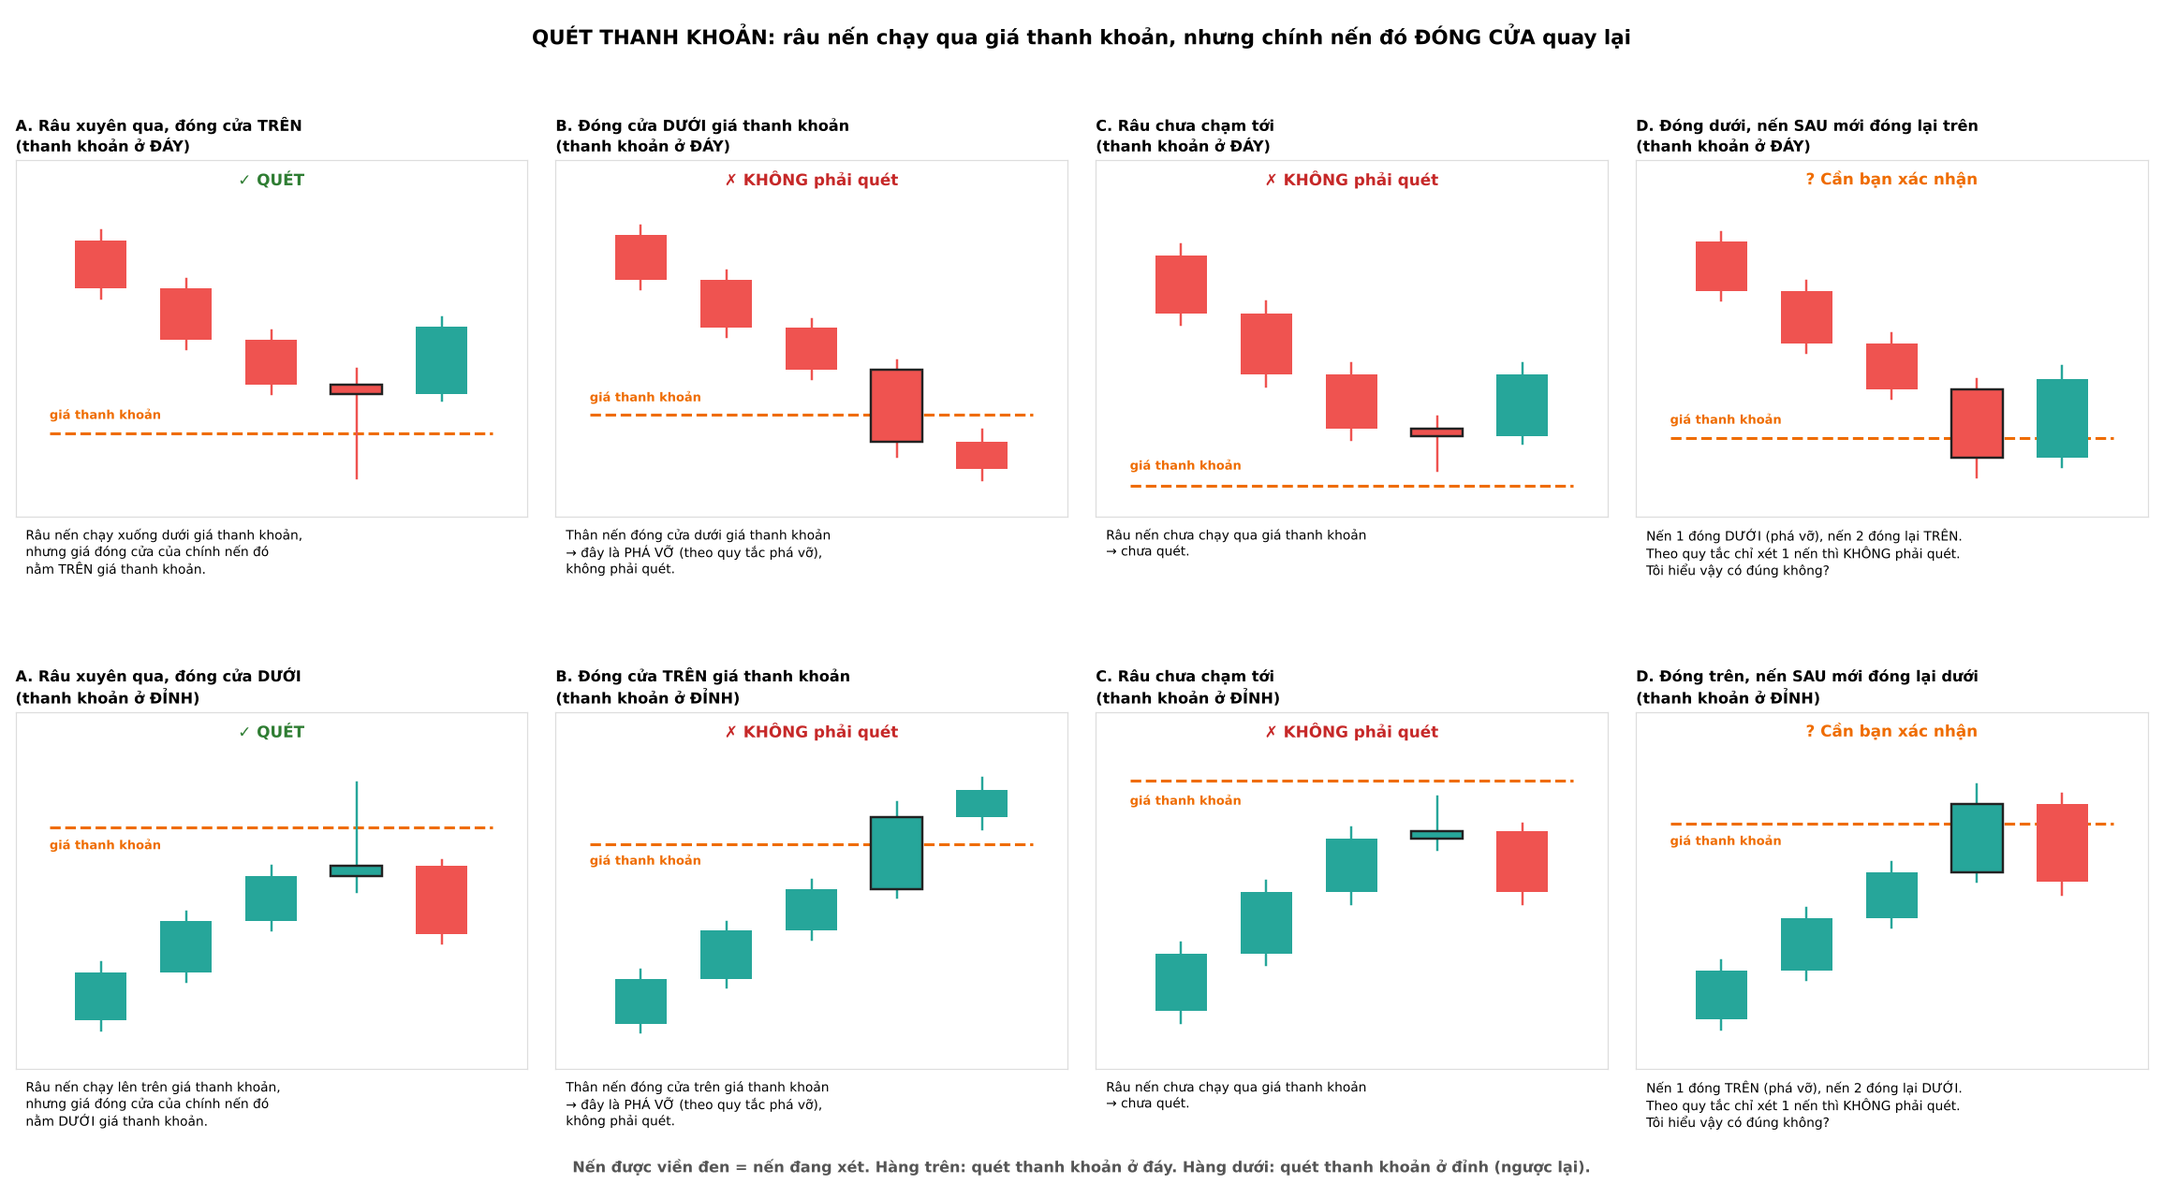
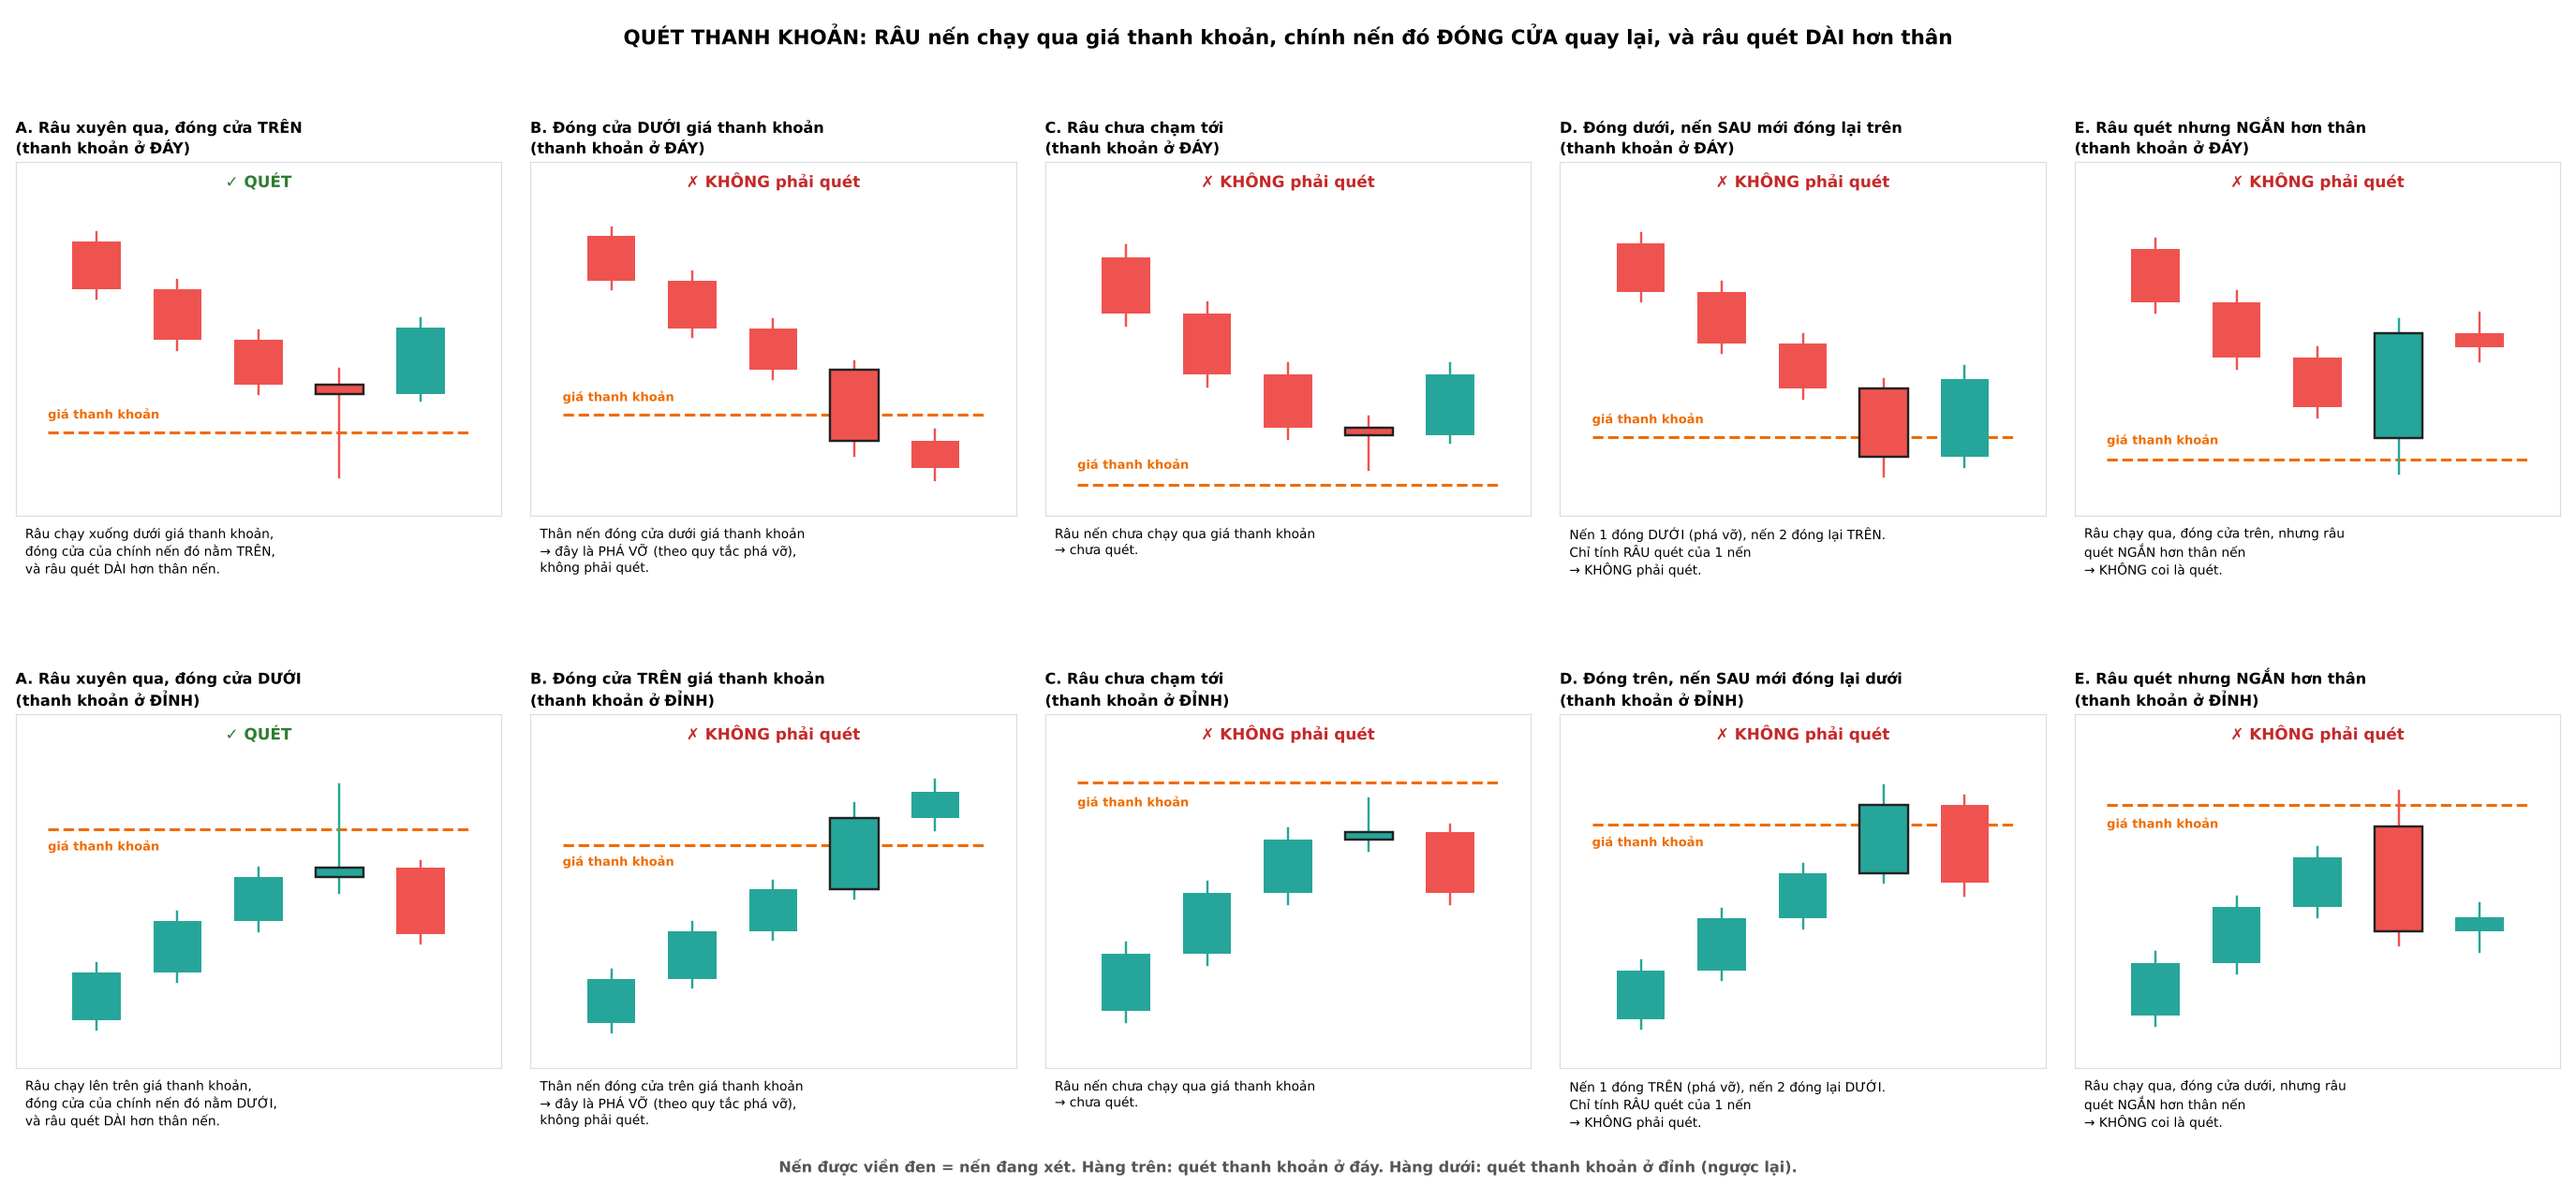
Quét thanh khoản: chỉ tính râu của một nến, râu quét phải dài hơn thân
Claude-Session: https://claude.ai/code/session_01QDQqkxbAsnss6apbWZAP33

diff --git a/knowledge/03-setup.md b/knowledge/03-setup.md
@@ -160,13 +160,15 @@ Ví dụ chart thật: `examples/01-dinh-day-xauusd-h4.jpg`
 2. **Đáy nông (đỉnh nông) của order flow thiếu.** Mức giá = giá đáy nông.
 3. **Mô hình 2 đỉnh / 2 đáy:** chỉ xét **2 đỉnh (hoặc 2 đáy) LIÊN TIẾP**, mỗi cái xác nhận theo quy tắc mục 1–2. Hai đỉnh/đáy **chênh nhau vẫn tính**. Mức giá = **đỉnh CAO NHẤT** của 2 đỉnh / **đáy THẤP NHẤT** của 2 đáy.
 
-**Quét thanh khoản (người dùng đã giảng, chờ duyệt hình `examples/20-quet-thanh-khoan.png`):**
+**Quét thanh khoản (đã xác nhận, xem `examples/20-quet-thanh-khoan.png`):**
 - **Quét thanh khoản ở đáy:** **râu nến chạy qua (xuống dưới) giá thanh khoản**, nhưng **giá đóng cửa của chính cây nến đó nằm TRÊN giá thanh khoản**.
 - **Quét thanh khoản ở đỉnh:** ngược lại – râu chạy lên trên giá thanh khoản, giá đóng cửa của chính nến đó nằm DƯỚI.
-- Cách hiểu của Claude: nếu thân nến đóng cửa vượt qua giá thanh khoản thì đó là **phá vỡ**, không phải quét.
+- **Chỉ tính RÂU quét của MỘT nến.** Nến đóng cửa vượt qua (phá vỡ) rồi nến SAU mới đóng lại phía bên kia → **KHÔNG phải quét**.
+- **Râu quét phải DÀI hơn thân nến.** Râu ngắn hơn thân → **KHÔNG coi là quét**.
+- Thân nến đóng cửa vượt qua giá thanh khoản là **phá vỡ**, không phải quét.
 
 **Chưa chốt:**
-- Nến đóng cửa vượt qua (phá vỡ), nến SAU mới đóng lại phía bên kia: có tính là quét không? (Claude hiểu: không.)
+- "Râu dài hơn thân": chỉ so phần râu quét (râu dưới khi quét đáy, râu trên khi quét đỉnh) với thân? (Claude đang hiểu như vậy.)
 - Giá đóng cửa ĐÚNG BẰNG giá thanh khoản thì sao?
 - Sau khi thanh khoản bị quét thì nó còn hiệu lực không?
 
